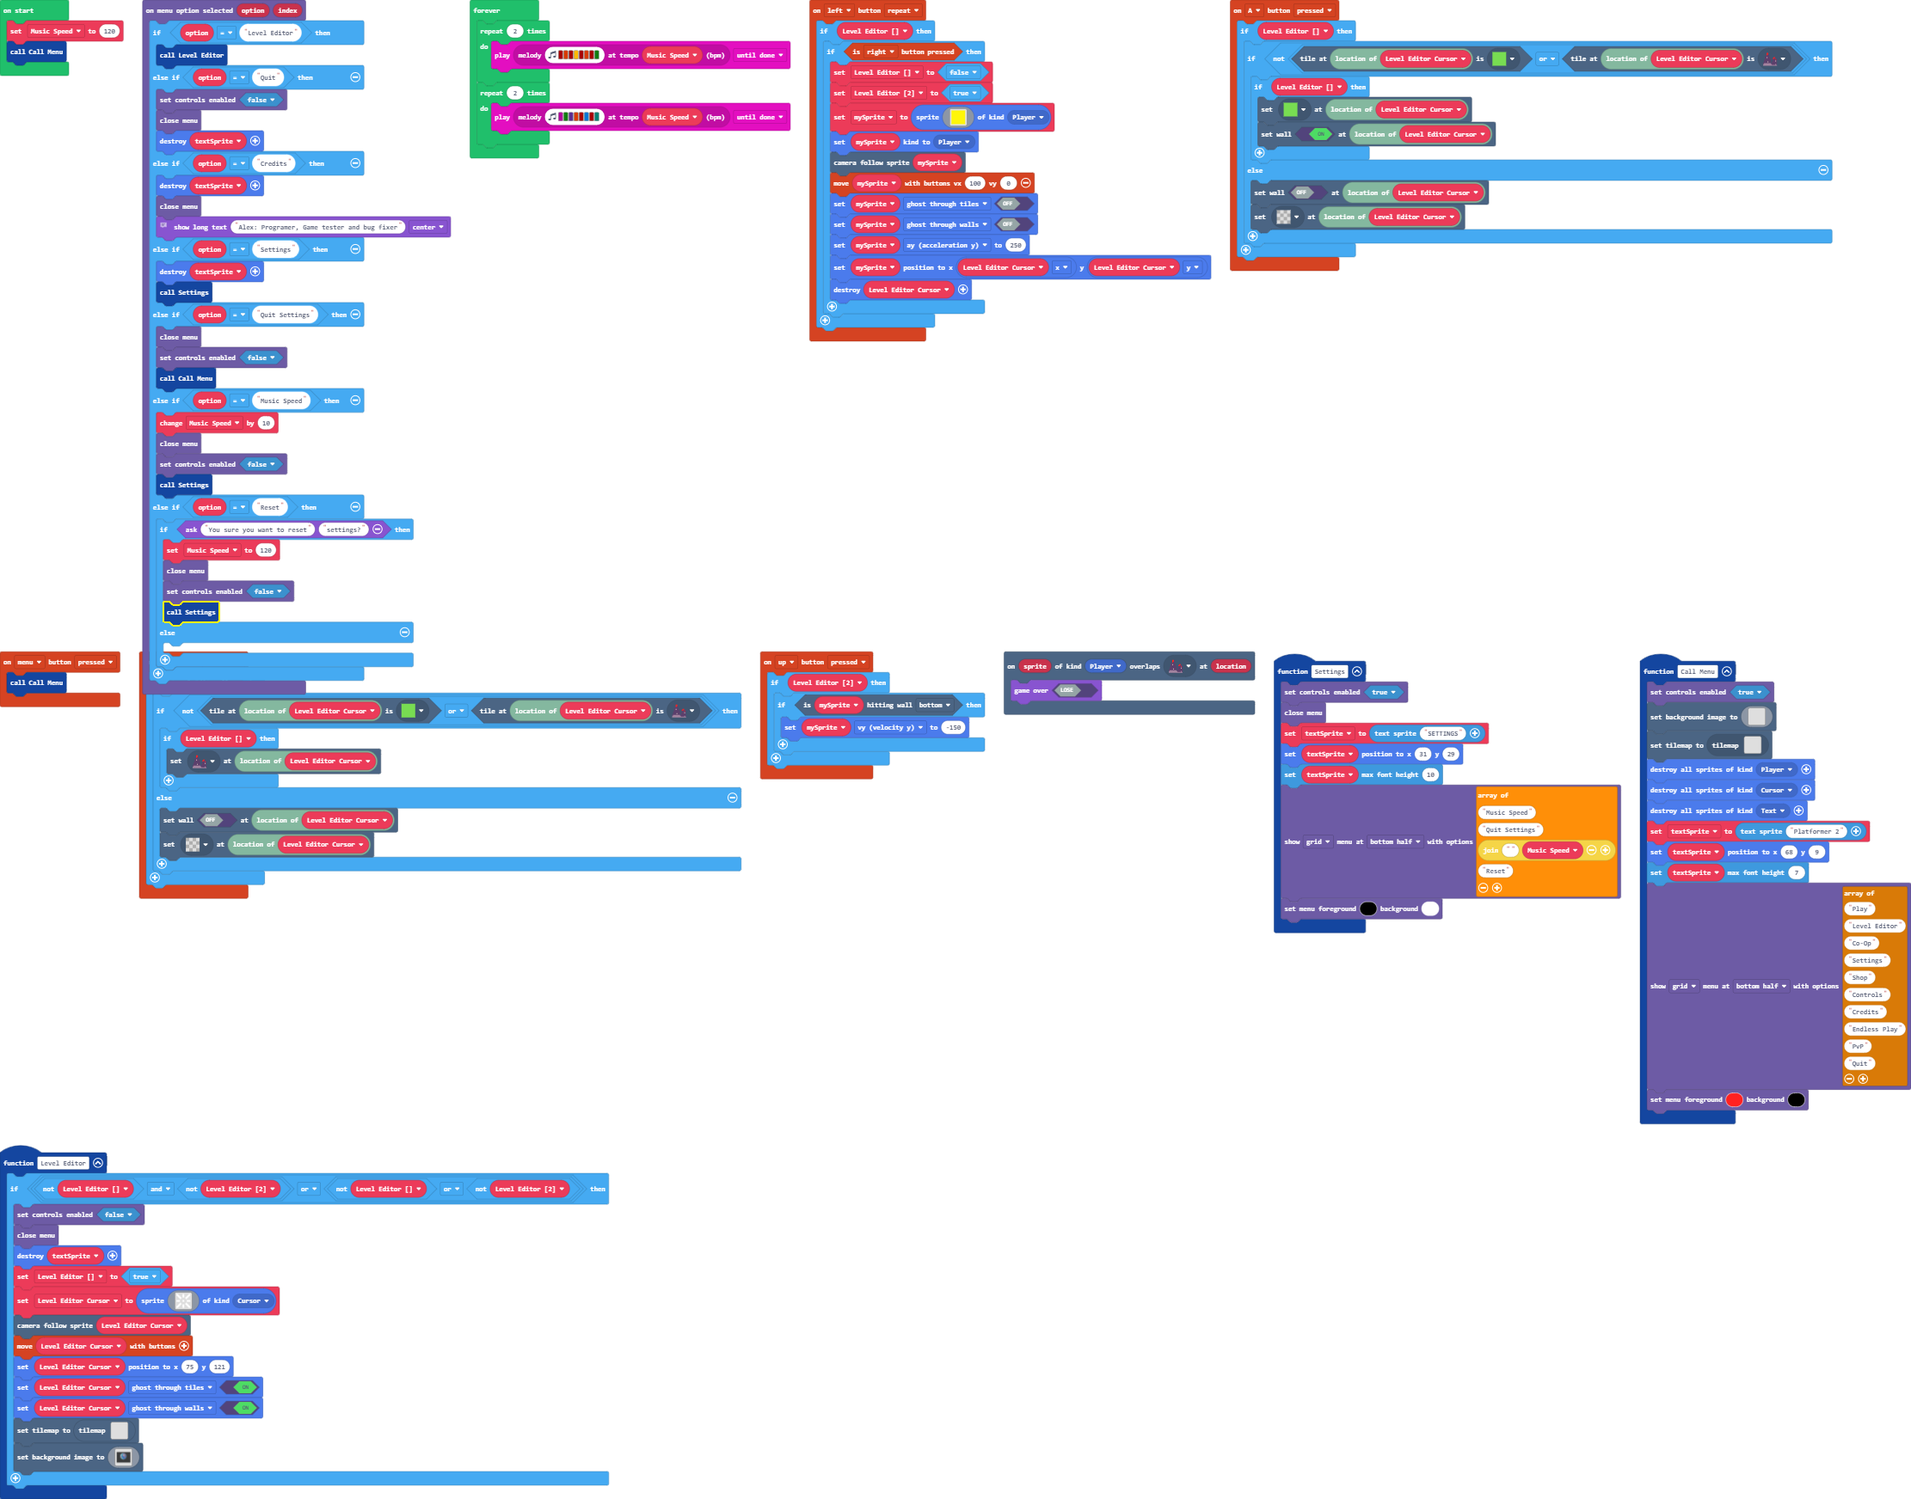
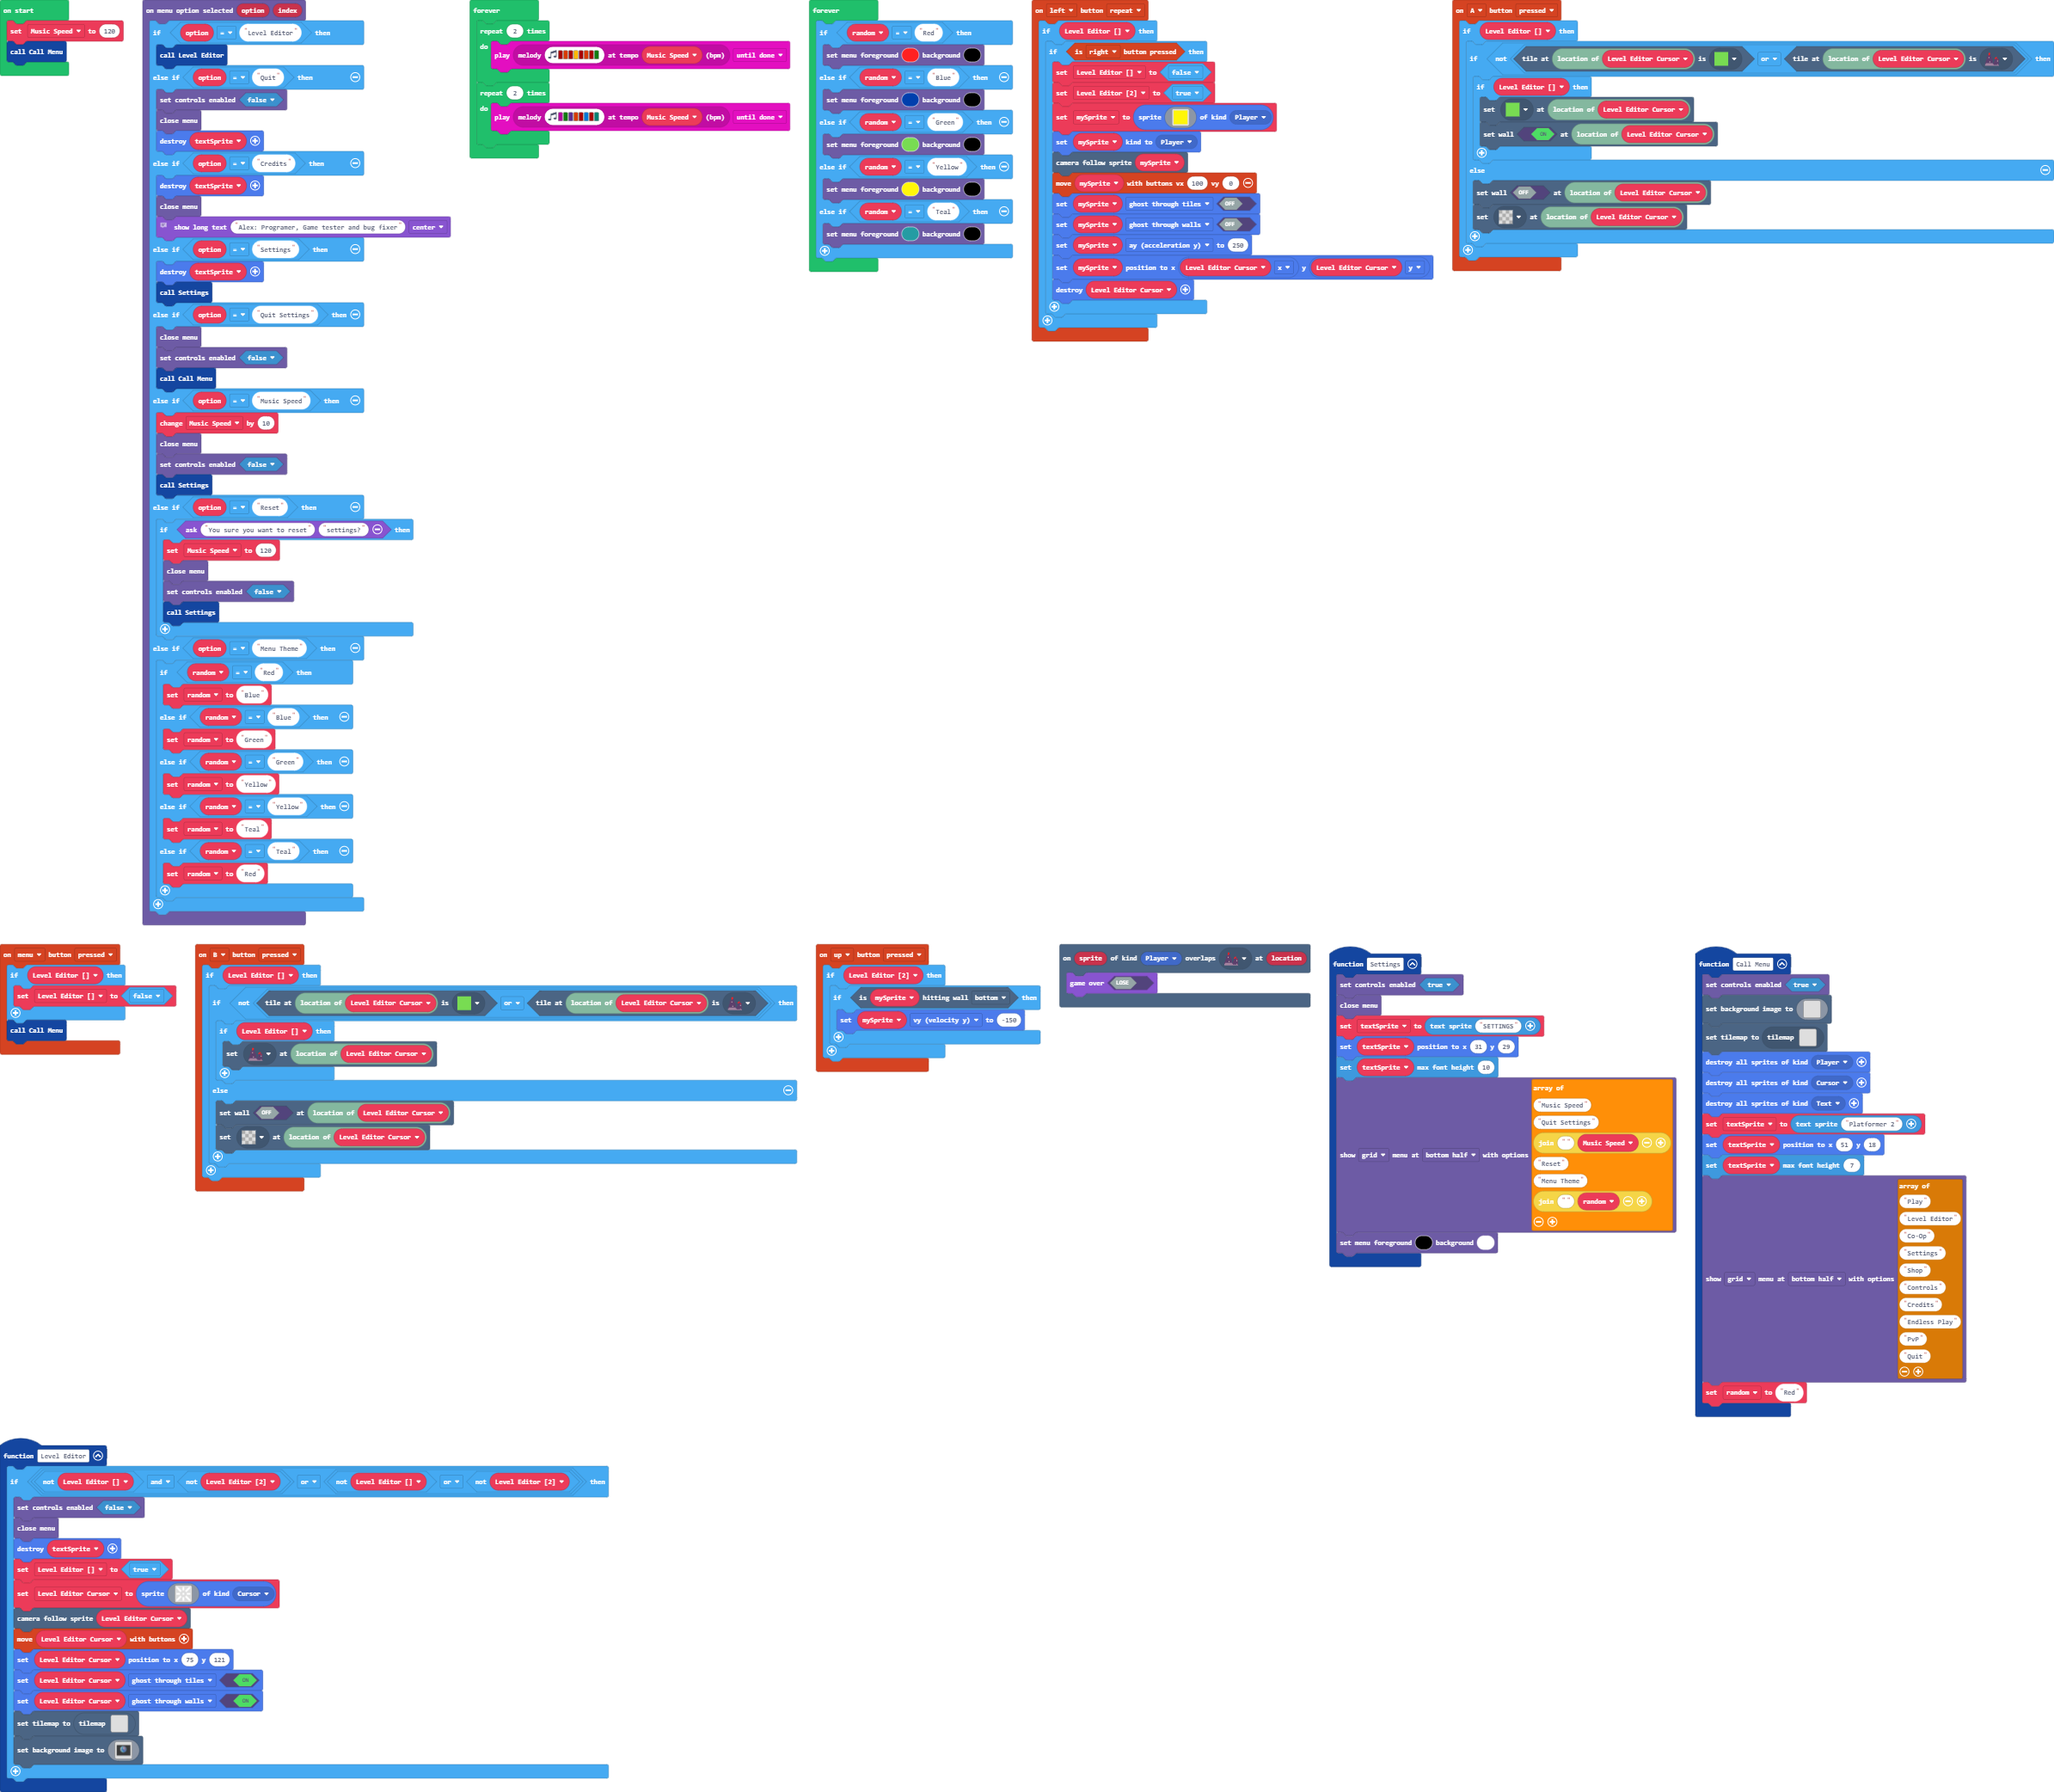
Update main.blocks, main.ts

Changed region(s): [[0.0, 0.0, 1.0, 0.805], [0.2174, 0.0, 1.0, 0.2477], [0.0, 0.7431, 0.3416, 1.0]]

diff --git a/main.ts b/main.ts
@@ -47,7 +47,9 @@ function Settings () {
     "Music Speed",
     "Quit Settings",
     "" + Music_Speed,
-    "Reset"
+    "Reset",
+    "Menu Theme",
+    "" + random
     ], MenuStyle.Grid, MenuLocation.BottomHalf)
     blockMenu.setColors(15, 1)
 }
@@ -180,7 +182,7 @@ function Call_Menu () {
     sprites.destroyAllSpritesOfKind(SpriteKind.Cursor)
     sprites.destroyAllSpritesOfKind(SpriteKind.Text)
     textSprite = textsprite.create("Platformer 2")
-    textSprite.setPosition(68, 9)
+    textSprite.setPosition(51, 18)
     textSprite.setMaxFontHeight(7)
     blockMenu.showMenu([
     "Play",
@@ -194,9 +196,12 @@ function Call_Menu () {
     "PvP",
     "Quit"
     ], MenuStyle.Grid, MenuLocation.BottomHalf)
-    blockMenu.setColors(2, 15)
+    random = "Red"
 }
 controller.menu.onEvent(ControllerButtonEvent.Pressed, function () {
+    if (Level_Editor_) {
+        Level_Editor_ = false
+    }
     Call_Menu()
 })
 function Level_Editor () {
@@ -383,8 +388,18 @@ blockMenu.onMenuOptionSelected(function (option, index) {
             blockMenu.closeMenu()
             blockMenu.setControlsEnabled(false)
             Settings()
-        } else {
-        	
+        }
+    } else if (option == "Menu Theme") {
+        if (random == "Red") {
+            random = "Blue"
+        } else if (random == "Blue") {
+            random = "Green"
+        } else if (random == "Green") {
+            random = "Yellow"
+        } else if (random == "Yellow") {
+            random = "Teal"
+        } else if (random == "Teal") {
+            random = "Red"
         }
     }
 })
@@ -422,6 +437,7 @@ controller.left.onEvent(ControllerButtonEvent.Repeated, function () {
         }
     }
 })
+let random = ""
 let textSprite: TextSprite = null
 let Level_Editor_Cursor: Sprite = null
 let Level_Editor_ = false
@@ -436,5 +452,18 @@ forever(function () {
     }
     for (let index = 0; index < 2; index++) {
         music.play(music.stringPlayable("C G D B C5 E C5 F ", Music_Speed), music.PlaybackMode.UntilDone)
+    }
+})
+forever(function () {
+    if (random == "Red") {
+        blockMenu.setColors(2, 15)
+    } else if (random == "Blue") {
+        blockMenu.setColors(8, 15)
+    } else if (random == "Green") {
+        blockMenu.setColors(7, 15)
+    } else if (random == "Yellow") {
+        blockMenu.setColors(5, 15)
+    } else if (random == "Teal") {
+        blockMenu.setColors(6, 15)
     }
 })
